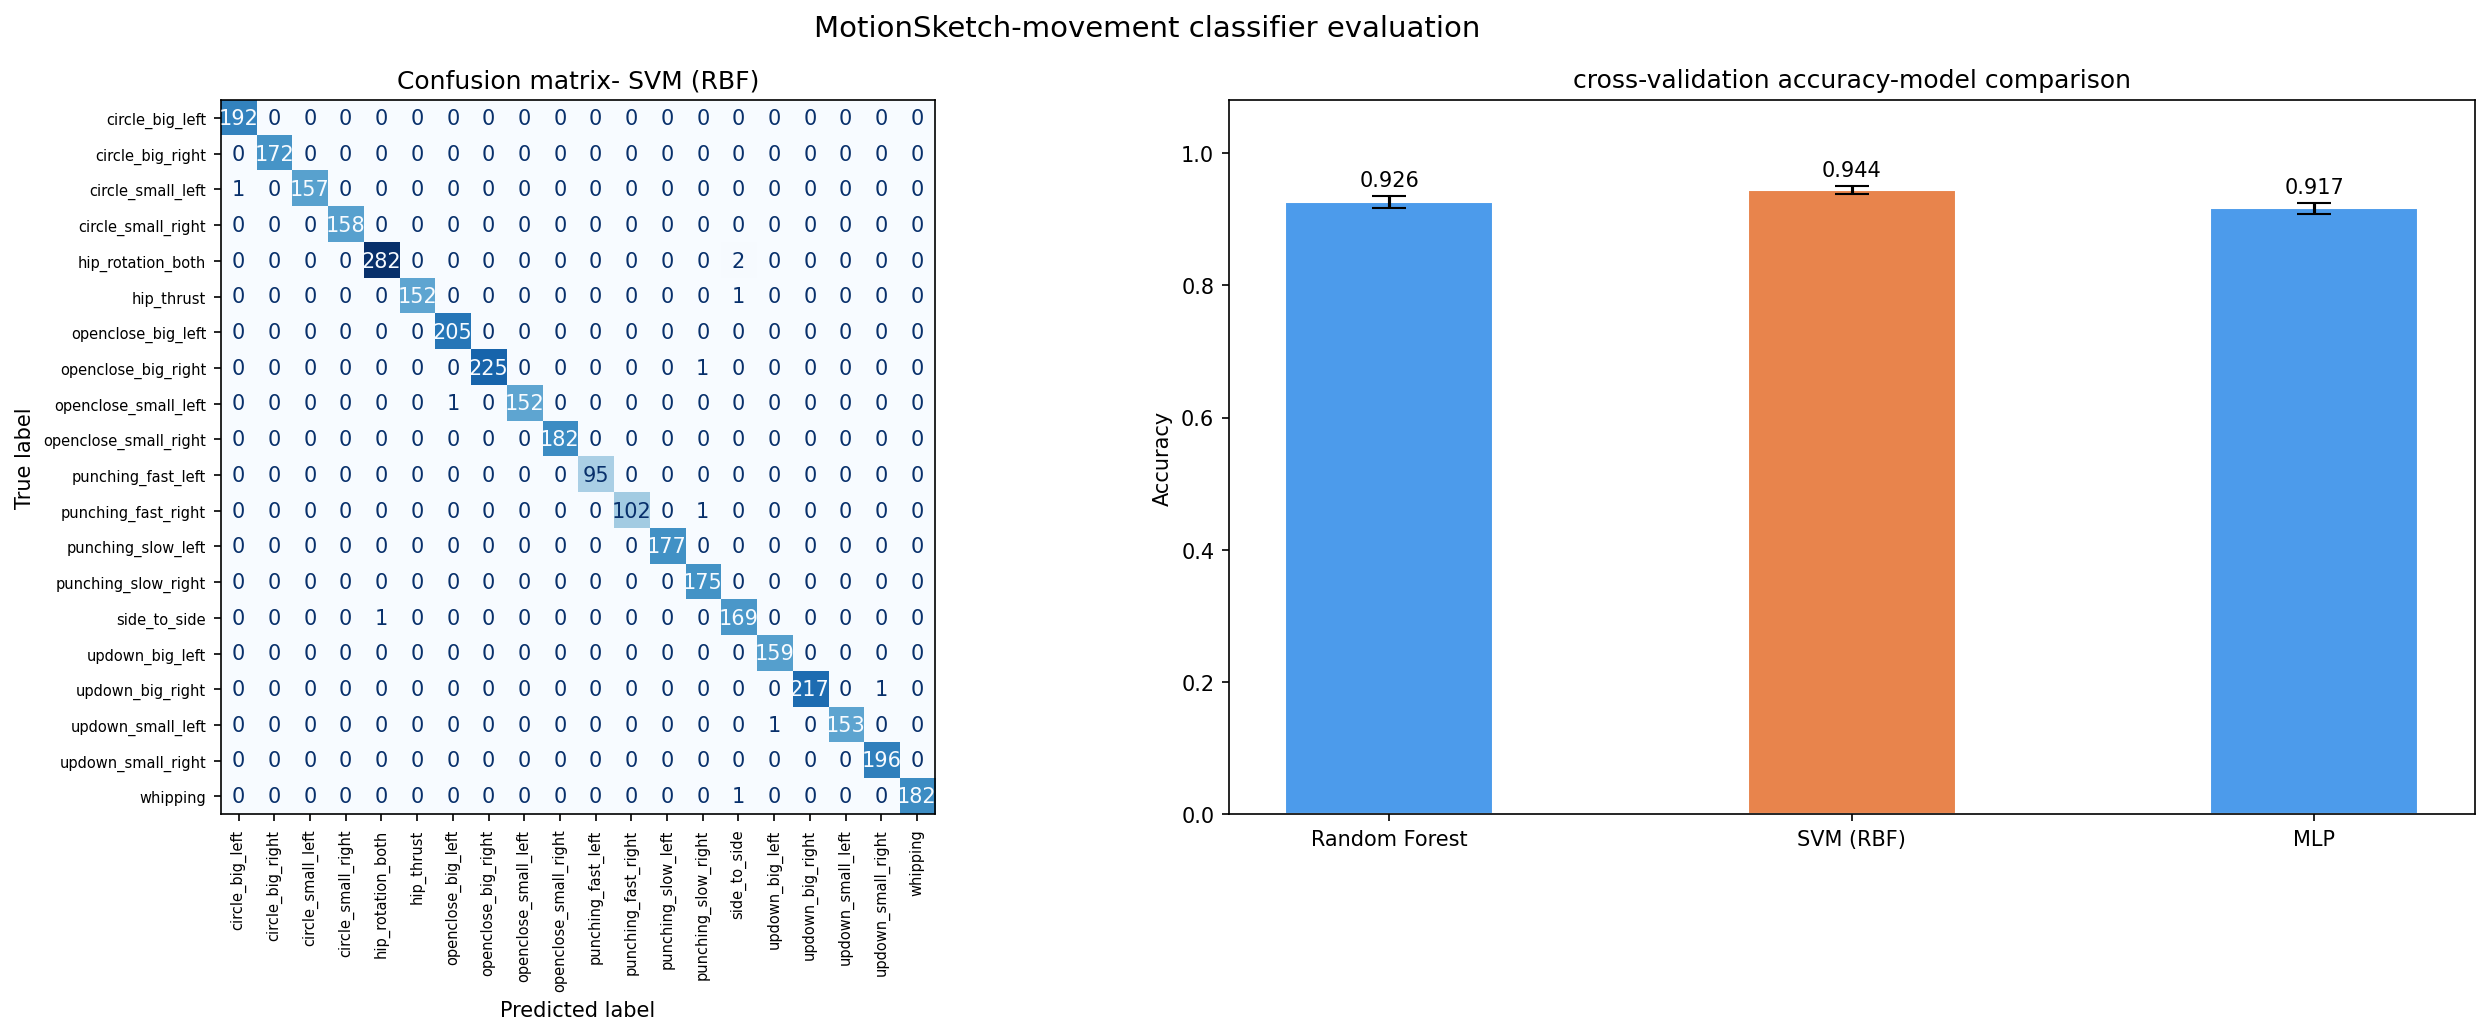
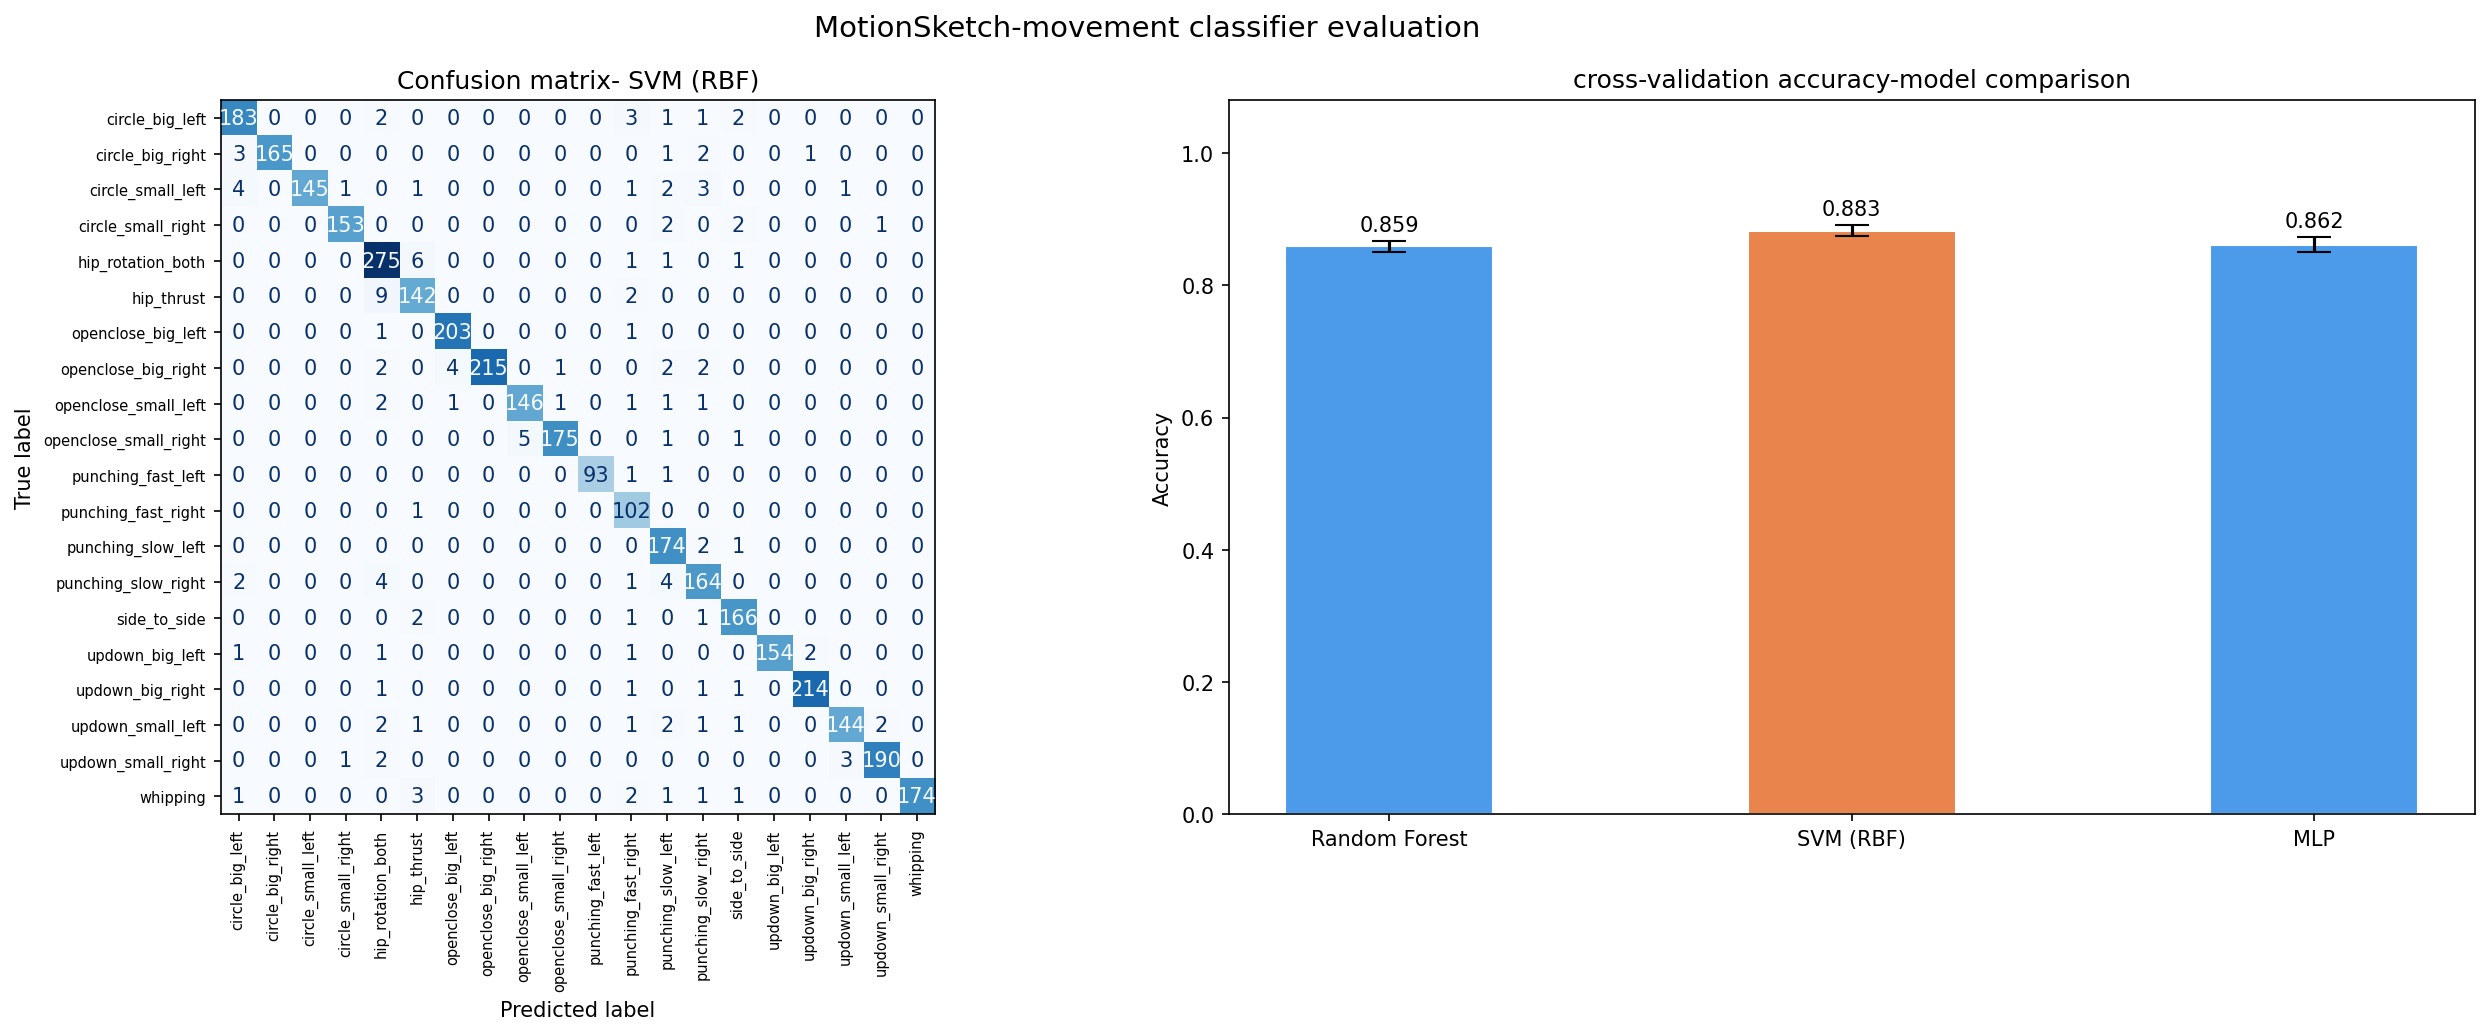
liveengine.py changes

diff --git a/MotionSketchLive/liveEngine.py b/MotionSketchLive/liveEngine.py
@@ -7,7 +7,6 @@ import time
 from bleak import BleakClient
 from pythonosc import udp_client
 
-# Direct feature extraction integration
 from Features import extract_features, WINDOW_SIZE, STEP_SIZE
 
 # ==============================================================================
@@ -18,15 +17,14 @@ UNITY_IP = "127.0.0.1"
 UNITY_PORT = 9000
 OSC_PATH = "/motionsketch/prediction"
 
-# Xsens DOT 128-bit BLE UUID definitions
 CONTROL_UUID     = "15172001-4947-11e9-8646-d663bd873d93"
 UUID_ORIENTATION = "15172002-4947-11e9-8646-d663bd873d93"
 UUID_MEDIUM      = "15172003-4947-11e9-8646-d663bd873d93"
 UUID_COMPLETE    = "15172004-4947-11e9-8646-d663bd873d93"
 
-# Student A Calibration Space Vectors
-MEANS = np.array([-2.156896, 10.437826, -11.540046, -0.022744, 0.111932, -0.413033, -7.426878, 0.691863, -5.463504])
-STDS = np.array([29.179614, 35.469717, 130.952588, 3.977307, 3.735324, 2.847601, 66.662668, 87.500496, 80.985148])
+# FreeAcc X/Y/Z and Gyr X/Y/Z only — Euler removed
+MEANS = np.array([-0.022744, 0.111932, -0.413033, -7.426878, 0.691863, -5.463504])
+STDS  = np.array([3.977307, 3.735324, 2.847601, 66.662668, 87.500496, 80.985148])
 
 class MotionSketchLivePipeline:
     def __init__(self):
@@ -42,15 +40,16 @@ class MotionSketchLivePipeline:
         print(f"[Engine] Ready! Target labels: {list(self.le.classes_)}")
 
     def parse_payload(self, data):
-        """Robust multi-payload parser handling both Complete (40B) and Medium (20B+) streams"""
+        """Parse BLE payload and return only FreeAcc + Gyr (6 values, no Euler)"""
         try:
             if len(data) >= 40:
-                # 9-column Complete format (Euler + Accel + Gyro)
-                return np.array(struct.unpack('<fffffffff', data[4:40]))
+                # Unpack all 9 values then slice off Euler (first 3)
+                all_values = np.array(struct.unpack('<fffffffff', data[4:40]))
+                return all_values[3:9]  # FreeAcc X/Y/Z, Gyr X/Y/Z
             elif len(data) >= 16:
-                # 3-column Orientation format (Padded with zeros for safety)
-                unpacked = struct.unpack('<ffff', data[4:20])
-                return np.array([unpacked[1], unpacked[2], unpacked[3], 0.0, 0.0, 0.0, 0.0, 0.0, 0.0])
+                # Orientation-only packet — no FreeAcc or Gyr available
+                # Return zeros so the buffer stays consistent
+                return np.zeros(6)
         except Exception:
             return None
         return None
@@ -59,7 +58,6 @@ class MotionSketchLivePipeline:
         start_time = time.perf_counter()
         self.total_packets_received += 1
         
-        # Clean, single-line ticker so you know data is actively moving
         if self.total_packets_received % 30 == 0:
             print(f"[Live Sync] Packets Processed: {self.total_packets_received}...", end="\r")
         
@@ -67,6 +65,7 @@ class MotionSketchLivePipeline:
         if raw_signal is None:
             return
 
+        # Scale using FreeAcc + Gyr means and stds only
         scaled_signal = (raw_signal - MEANS) / STDS
         self.smooth_buffer.append(scaled_signal)
         smoothed_frame = np.mean(self.smooth_buffer, axis=0)
@@ -77,7 +76,7 @@ class MotionSketchLivePipeline:
             self.run_inference(start_time)
 
     def run_inference(self, start_time):
-        current_window = np.array(self.window_buffer)
+        current_window = np.array(self.window_buffer)  # shape: (60, 6)
         features = extract_features(current_window).reshape(1, -1)
         
         probabilities = self.model.predict_proba(features)[0]
@@ -86,9 +85,10 @@ class MotionSketchLivePipeline:
         label = self.le.inverse_transform([predicted_idx])[0]
         
         latency_ms = round((time.perf_counter() - start_time) * 1000, 2)
-        acc_magnitude = np.mean(np.linalg.norm(current_window[:, 3:6], axis=1))
+
+        # acc is now columns 0:3 (was 3:6 when Euler was included)
+        acc_magnitude = np.mean(np.linalg.norm(current_window[:, 0:3], axis=1))
         
-        # 🚨 OPEN THRESHOLD FILTER: Let us see exactly what numbers are calculating live
         if confidence > 0.10:  
             print(f"\n >> [{label:<22}] Confidence: {confidence:.2%} | Latency: {latency_ms}ms")
             self.osc.send_message(OSC_PATH, [label, float(confidence), float(acc_magnitude)])
@@ -104,7 +104,6 @@ async def main():
                 
                 available_uuids = [char.uuid for service in client.services for char in service.characteristics]
                 
-                # Sequence triggers to safely fire up streaming across old/new firmware revisions
                 start_commands = [b'\x01\x01\x01', b'\x01\x01\x02', b'\x01\x01\x10']
                 for cmd in start_commands:
                     try:
@@ -113,7 +112,6 @@ async def main():
                     except Exception:
                         pass
 
-                # Multi-channel failover binding
                 target_channels = [UUID_ORIENTATION, UUID_MEDIUM, UUID_COMPLETE]
                 bound_count = 0
                 